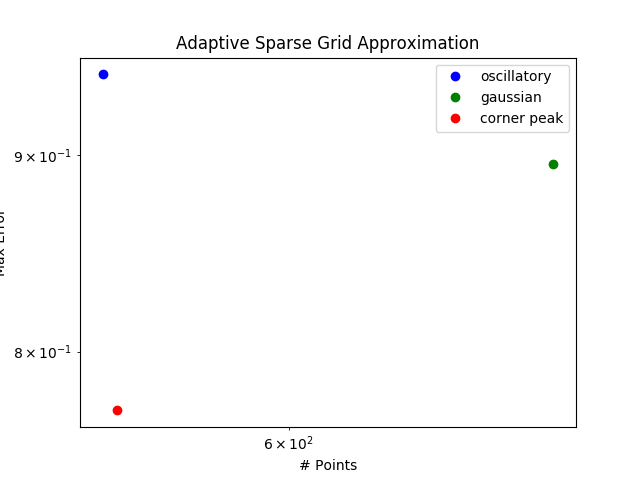
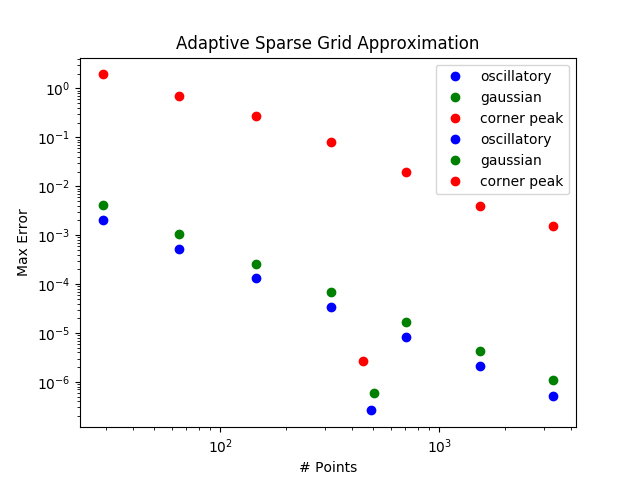
modifications

diff --git a/day1_SparseGrid/SparseGridCode/analytical_examples/TASMANIAN_Python/homework.py b/day1_SparseGrid/SparseGridCode/analytical_examples/TASMANIAN_Python/homework.py
@@ -20,20 +20,20 @@ d = 2
 
 def oscillatory(x, c, w, d):
     innersum = 0
-    for ii in range(d):
-        innersum +=  c[d] * x[d]
+    for iI in range(d):
+        innersum +=  c[iI] * x[iI]
     return np.cos(2 * np.pi * w[0] + innersum)
 
 def gaussian(x, c, w, d):
     innersum = 0
-    for ii in range(d):
-        innersum += c[d]**2 * (x[d] - w[d])**2
+    for iI in range(d):
+        innersum += c[iI]**2 * (x[iI] - w[iI])**2
     return np.exp(- innersum)
 
 def corner_peak(x, c, w, d):
     innersum = 0
-    for ii in range(d):
-        innersum +=  c[d] * x[d]
+    for iI in range(d):
+        innersum +=  c[iI] * x[iI]
     return (1 + innersum) ** -(d+1)
 
 # Sparse Grids
@@ -56,7 +56,7 @@ def sparse_grid(iDim, iOut, which_bases, func, c, w):
         # Result
         aTres = np.empty([n,])
         for iI in range(n):
-            aTres[iI] = func(aPnts[iI], c, w, iDim-1)
+            aTres[iI] = func(aPnts[iI], c, w, iDim)
 
         print("\n-------------------------------------------------------------------------------------------------")
         if func == gaussian:
@@ -74,7 +74,7 @@ def sparse_grid(iDim, iOut, which_bases, func, c, w):
         iNumP1 = aPoints.shape[0]
         aVals = np.empty([aPoints.shape[0], 1])
         for iI in range(aPoints.shape[0]):
-            aVals[iI] = func(aPoints[iI], c, w, iDim-1)
+            aVals[iI] = func(aPoints[iI], c, w, iDim)
         grid.loadNeededPoints(aVals)
 
         # compute the error
@@ -95,7 +95,7 @@ def sparse_grid(iDim, iOut, which_bases, func, c, w):
 def adaptive_sparse_grid(iDim, iOut, fTol, which_basis, refinement_level, func, c, w):
 
     grid1  = TasmanianSG.TasmanianSparseGrid()
-    depths = np.arange(4, 10, 2)
+    depths = np.arange(3, 10, 1)
     errorStore = np.zeros(len(depths))
     numPoints = np.zeros(len(depths))
     n = 1000
@@ -108,7 +108,7 @@ def adaptive_sparse_grid(iDim, iOut, fTol, which_basis, refinement_level, func, 
                 aPnts[iI][iJ] = uniform(-1.0, 1.0)
 
         aTres = np.empty([n,])
-        for iI in range(n-1):
+        for iI in range(n):
             aTres[iI] = func(aPnts[iI], c, w, iDim-1)
 
         # level of grid before refinement
@@ -128,7 +128,7 @@ def adaptive_sparse_grid(iDim, iOut, fTol, which_basis, refinement_level, func, 
         if func == corner_peak:
             print("Test Function: interpolate function f(x,y) = ( 1 + sum_i c_i * x_i )^(-3)")
         print("   the error is estimated as the maximum from 1000 random points")
-        print("   tolerance is set at 1.E-5 and piecewise linear basis functions are used\n")
+        print("   tolerance is set at 1.E-6 and piecewise linear basis functions are used\n")
 
         print("               Classic refinement ")
         print(" refinement level         points     error   ")
@@ -158,32 +158,39 @@ iDim = 2
 iOut = 1
 which_basis = 1 #1= linear basis functions -> Check the manual for other options
 
-#numPointsS, errorStoreS = sparse_grid(iDim, iOut, which_basis, oscillatory, c, w)
-#numPointsS1, errorStoreS1 = sparse_grid(iDim, iOut, which_basis, gaussian, c, w)
-#numPointsS2, errorStoreS2 = sparse_grid(iDim, iOut, which_basis, corner_peak, c, w)
+numPointsS, errorStoreS = sparse_grid(iDim, iOut, which_basis, oscillatory, c, w)
+numPointsS1, errorStoreS1 = sparse_grid(iDim, iOut, which_basis, gaussian, c, w)
+numPointsS2, errorStoreS2 = sparse_grid(iDim, iOut, which_basis, corner_peak, c, w)
 
-#plt.xscale('log')
-#plt.yscale('log')
-#plt.plot(numPointsS, errorStoreS, 'bo', label = "oscillatory")
-#plt.plot(numPointsS1, errorStoreS1, 'go', label = "gaussian")
-#plt.plot(numPointsS2, errorStoreS2, 'ro', label = "corner peak")
-#plt.title('Sparse Grid Approximation')
-#plt.xlabel('# Points')
-#plt.ylabel('Max Error')
-#plt.legend(loc = "upper right")
-#plt.show()
-#plt.savefig('SG_approx.png')
+plt.xscale('log')
+plt.yscale('log')
+plt.plot(numPointsS, errorStoreS, 'bo', label = "oscillatory")
+plt.plot(numPointsS1, errorStoreS1, 'go', label = "gaussian")
+plt.plot(numPointsS2, errorStoreS2, 'ro', label = "corner peak")
+plt.title('Sparse Grid Approximation')
+plt.xlabel('# Points')
+plt.ylabel('Max Error')
+plt.legend(loc = "upper right")
+plt.show()
+plt.savefig('SG_approx.png')
 
 # Adaptive Sparse Grid with dimension 2 and 1 output and maximum refinement level 5, refinement criterion.
 iDim = 2
 iOut = 1
-fTol = 1.E-5
+fTol = 1.E-6
 which_basis = 1
 refinement_level = 5
 
 numPointsS, errorStoreS = adaptive_sparse_grid(iDim, iOut, fTol, which_basis, refinement_level, oscillatory, c, w)
 numPointsS1, errorStoreS1 = adaptive_sparse_grid(iDim, iOut, fTol, which_basis, refinement_level, gaussian, c, w)
 numPointsS2, errorStoreS2 = adaptive_sparse_grid(iDim, iOut, fTol, which_basis, refinement_level, corner_peak, c, w)
+
+print("numPointsS: ", numPointsS)
+print("numPointsS1: ", numPointsS1)
+print("numPointsS2", numPointsS2)
+print("errStoreS", errorStoreS)
+print("errStoreS1",  errorStoreS1)
+print("errStoreS2", errorStoreS2)
 
 plt.yscale('log')
 plt.xscale('log')
